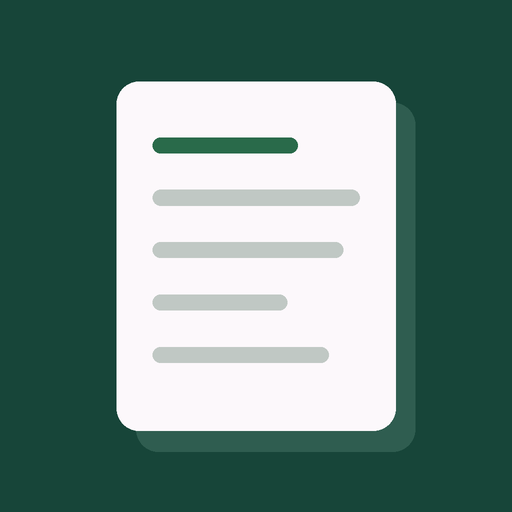
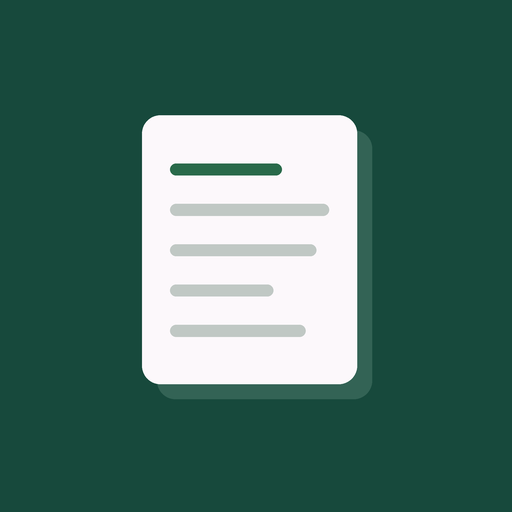
style: 앱 아이콘의 흰 종이를 줄임(런처용 45%→34%, 일반 55%→42%)
아이콘 주소에 ?v=2 · 그리는 스크립트 deploy/icon.py

Changed region(s): [[0.2188, 0.1562, 0.7812, 0.8438]]

diff --git a/hanjang/pwa.py b/hanjang/pwa.py
@@ -11,9 +11,9 @@ MANIFEST = json.dumps({
     "name": "한장 — 한눈에 읽는 장", "short_name": "한장", "lang": "ko", "start_url": "/", "scope": "/", "id": "/",
     "display": "standalone", "background_color": "#fcf8fb", "theme_color": "#154539",
     "description": "공시·재무·소식을 이어서, 내 종목이 지금 어떤 상황인지 쉬운 글로 설명합니다.", "categories": ["finance", "education"],
-    "icons": [{"src": "/static/icon-192.png", "sizes": "192x192", "type": "image/png"},
-              {"src": "/static/icon-512.png", "sizes": "512x512", "type": "image/png"},
-              {"src": "/static/icon-maskable.png", "sizes": "512x512", "type": "image/png", "purpose": "maskable"}],
+    "icons": [{"src": "/static/icon-192.png?v=2", "sizes": "192x192", "type": "image/png"},
+              {"src": "/static/icon-512.png?v=2", "sizes": "512x512", "type": "image/png"},
+              {"src": "/static/icon-maskable.png?v=2", "sizes": "512x512", "type": "image/png", "purpose": "maskable"}],
 }, ensure_ascii=False)  # fmt: skip
 SW = ("const C='hanjang-1';self.addEventListener('install',ev=>{ev.waitUntil(caches.open(C).then(c=>c.add('/offline')));self.skipWaiting();});"
       "self.addEventListener('activate',ev=>{ev.waitUntil(caches.keys().then(ks=>Promise.all(ks.filter(k=>k!==C).map(k=>caches.delete(k)))));self.clients.claim();});"
@@ -25,7 +25,7 @@ OFFLINE = ('<!DOCTYPE html><html lang="ko"><head><meta charset="utf-8"><meta nam
            '<body><main>' + tree.line("oops") + '<h1>인터넷 연결이 끊겼어요</h1><p>한장은 매일 새로 쓴 노트를 보여 드려서, 연결이 돌아오면 바로 이어서 볼 수 있어요.</p>'
            '<button onclick="location.reload()">다시 열기</button></main></body></html>')  # fmt: skip
 PWA_TAGS = ('<link rel="manifest" href="/manifest.webmanifest"><meta name="theme-color" content="#154539">'
-            '<link rel="apple-touch-icon" href="/static/apple-touch-icon.png"><link rel="icon" href="/static/icon-192.png" type="image/png">'
+            '<link rel="apple-touch-icon" href="/static/apple-touch-icon.png?v=2"><link rel="icon" href="/static/icon-192.png?v=2" type="image/png">'
             "<script>if('serviceWorker' in navigator)navigator.serviceWorker.register('/sw.js');</script>")
 
 

diff --git a/deploy/icon.py b/deploy/icon.py
@@ -1,0 +1,31 @@
+"""앱 아이콘 다시 그리기 — 흰 종이를 줄인다(사용자 10/12: 깔았을 때 종이가 너무 크다). 4배로 그려 줄여서 가장자리를 매끈하게."""
+import sys
+from PIL import Image, ImageDraw
+
+BG, PAPER, SHADOW, HEAD, LINE = (23, 73, 60), (252, 248, 251), (51, 99, 85), (41, 106, 74), (192, 200, 196)
+
+
+def draw(size: int, paper_w: float) -> Image.Image:
+    """paper_w: 종이 너비 ÷ 전체 너비."""
+    S = size * 4
+    im = Image.new("RGB", (S, S), BG)
+    d = ImageDraw.Draw(im)
+    w = S * paper_w
+    h = w * 1.25
+    x0, y0 = (S - w) / 2 - w * 0.03, (S - h) / 2 - w * 0.03
+    r = w * 0.085
+    off = w * 0.07
+    d.rounded_rectangle((x0 + off, y0 + off, x0 + w + off, y0 + h + off), r, fill=SHADOW)
+    d.rounded_rectangle((x0, y0, x0 + w, y0 + h), r, fill=PAPER)
+    lx, th = x0 + w * 0.13, w * 0.055
+    for k, (frac, col) in enumerate(((0.52, HEAD), (0.74, LINE), (0.68, LINE), (0.48, LINE), (0.63, LINE))):
+        y = y0 + h * (0.18 + k * 0.15)
+        d.rounded_rectangle((lx, y, lx + w * frac, y + th), th / 2, fill=col)
+    return im.resize((size, size), Image.LANCZOS)
+
+
+out = sys.argv[1] if len(sys.argv) > 1 else "hanjang/static"  # python deploy/icon.py — 그림을 바꾸면 pwa.py 의 ?v= 도 올린다
+draw(512, 0.34).save(f"{out}/icon-maskable.png")   # 런처가 가장자리를 깎는다 — 종이를 가운데 작게 (전: 0.45)
+draw(512, 0.42).save(f"{out}/icon-512.png")        # 전: 0.55
+draw(192, 0.42).save(f"{out}/icon-192.png")
+draw(180, 0.42).save(f"{out}/apple-touch-icon.png")
